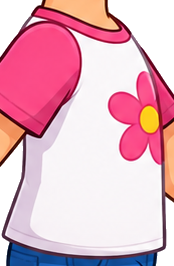
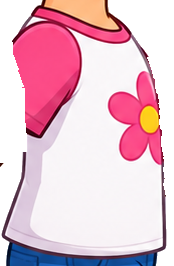
bug fixes

Changed region(s): [[0.0, 0.1504, 0.1724, 0.6316], [0.8333, 0.2105, 1.0, 0.782]]

diff --git a/CatoriUCLibrary/Views/Person/PersonUC.xaml.cs b/CatoriUCLibrary/Views/Person/PersonUC.xaml.cs
@@ -68,6 +68,11 @@ public partial class PersonUC : UserControl, IDraggable, ICanvasDragAnchor, IDra
     public double RightElbowAngle { get=>GetJointAngle(RightForearmImage);set=>SetJointAngle(RightForearmImage,value); }
     public double LeftKneeAngle { get=>GetJointAngle(LeftLowerLegImage);set=>SetJointAngle(LeftLowerLegImage,value); }
     public double RightKneeAngle { get=>GetJointAngle(RightLowerLegImage);set=>SetJointAngle(RightLowerLegImage,value); }
+    public double LeftShoulderAngle
+    {
+        get => GetJointAngle(LeftArmRoot);
+        set => SetJointAngle(LeftArmRoot, value);
+    }
     public bool IsArmEditingEnabled
     {
         get => _isArmEditingEnabled;
@@ -147,11 +152,11 @@ public partial class PersonUC : UserControl, IDraggable, ICanvasDragAnchor, IDra
         LeftElbowAngle=leftElbow;RightElbowAngle=rightElbow;LeftKneeAngle=leftKnee;RightKneeAngle=rightKnee;
     }
 
-    private static double GetJointAngle(Image image)=>image.RenderTransform is System.Windows.Media.RotateTransform rotate?rotate.Angle:0;
-    private static void SetJointAngle(Image image,double angle)
+    private static double GetJointAngle(FrameworkElement element)=>element.RenderTransform is System.Windows.Media.RotateTransform rotate?rotate.Angle:0;
+    private static void SetJointAngle(FrameworkElement element,double angle)
     {
-        if(image.RenderTransform is System.Windows.Media.RotateTransform rotate)rotate.Angle=angle;
-        else image.RenderTransform=new System.Windows.Media.RotateTransform(angle);
+        if(element.RenderTransform is System.Windows.Media.RotateTransform rotate)rotate.Angle=angle;
+        else element.RenderTransform=new System.Windows.Media.RotateTransform(angle);
     }
 
     private static void ApplyPart(Image image,AvatarPartSettings part,Point avatarCenter,double? fallbackWidth=null,double? fallbackHeight=null)
@@ -199,7 +204,8 @@ public partial class PersonUC : UserControl, IDraggable, ICanvasDragAnchor, IDra
             return;
 
         IReadOnlyList<string> frames = animation.FrameImagePaths;
-        if (frames.Count == 0)
+        bool usesComposedParts = !string.IsNullOrWhiteSpace(_settings.Body.ImagePath);
+        if (frames.Count == 0 || usesComposedParts)
         {
             ActivityCompleted?.Invoke(this, new PersonActivityCompletedEventArgs(activity));
             return;
@@ -246,6 +252,45 @@ public partial class PersonUC : UserControl, IDraggable, ICanvasDragAnchor, IDra
         }
 
         ArmAngle = targetAngle;
+        ArmMoved?.Invoke(this, EventArgs.Empty);
+    }
+
+    public async Task MoveShouldersToAsync(
+        double leftTargetAngle,
+        double rightTargetAngle,
+        TimeSpan duration,
+        CancellationToken cancellationToken = default
+    )
+    {
+        double leftStartAngle = LeftShoulderAngle;
+        double rightStartAngle = ArmAngle;
+        if (duration <= TimeSpan.Zero)
+        {
+            LeftShoulderAngle = leftTargetAngle;
+            ArmAngle = rightTargetAngle;
+            ArmMoved?.Invoke(this, EventArgs.Empty);
+            return;
+        }
+        Stopwatch stopwatch = Stopwatch.StartNew();
+        while (stopwatch.Elapsed < duration)
+        {
+            cancellationToken.ThrowIfCancellationRequested();
+            double amount = Math.Clamp(
+                stopwatch.Elapsed.TotalMilliseconds / duration.TotalMilliseconds,
+                0,
+                1
+            );
+            amount = amount < .5
+                ? 2 * amount * amount
+                : 1 - Math.Pow(-2 * amount + 2, 2) / 2;
+            LeftShoulderAngle = leftStartAngle
+                + (leftTargetAngle - leftStartAngle) * amount;
+            ArmAngle = rightStartAngle
+                + (rightTargetAngle - rightStartAngle) * amount;
+            await Task.Delay(16, cancellationToken);
+        }
+        LeftShoulderAngle = leftTargetAngle;
+        ArmAngle = rightTargetAngle;
         ArmMoved?.Invoke(this, EventArgs.Empty);
     }
 
@@ -304,8 +349,14 @@ public partial class PersonUC : UserControl, IDraggable, ICanvasDragAnchor, IDra
             ? Visibility.Visible
             : Visibility.Collapsed;
         ArmAngle = animation.ArmAngle;
-        if (setFirstFrame && animation.FrameImagePaths.Count > 0)
+        if (
+            setFirstFrame
+            && animation.FrameImagePaths.Count > 0
+            && string.IsNullOrWhiteSpace(_settings.Body.ImagePath)
+        )
+        {
             BodyImage.Source = LoadImage(animation.FrameImagePaths[0]);
+        }
     }
 
     private void ArmImage_MouseLeftButtonDown(object sender, MouseButtonEventArgs e)
